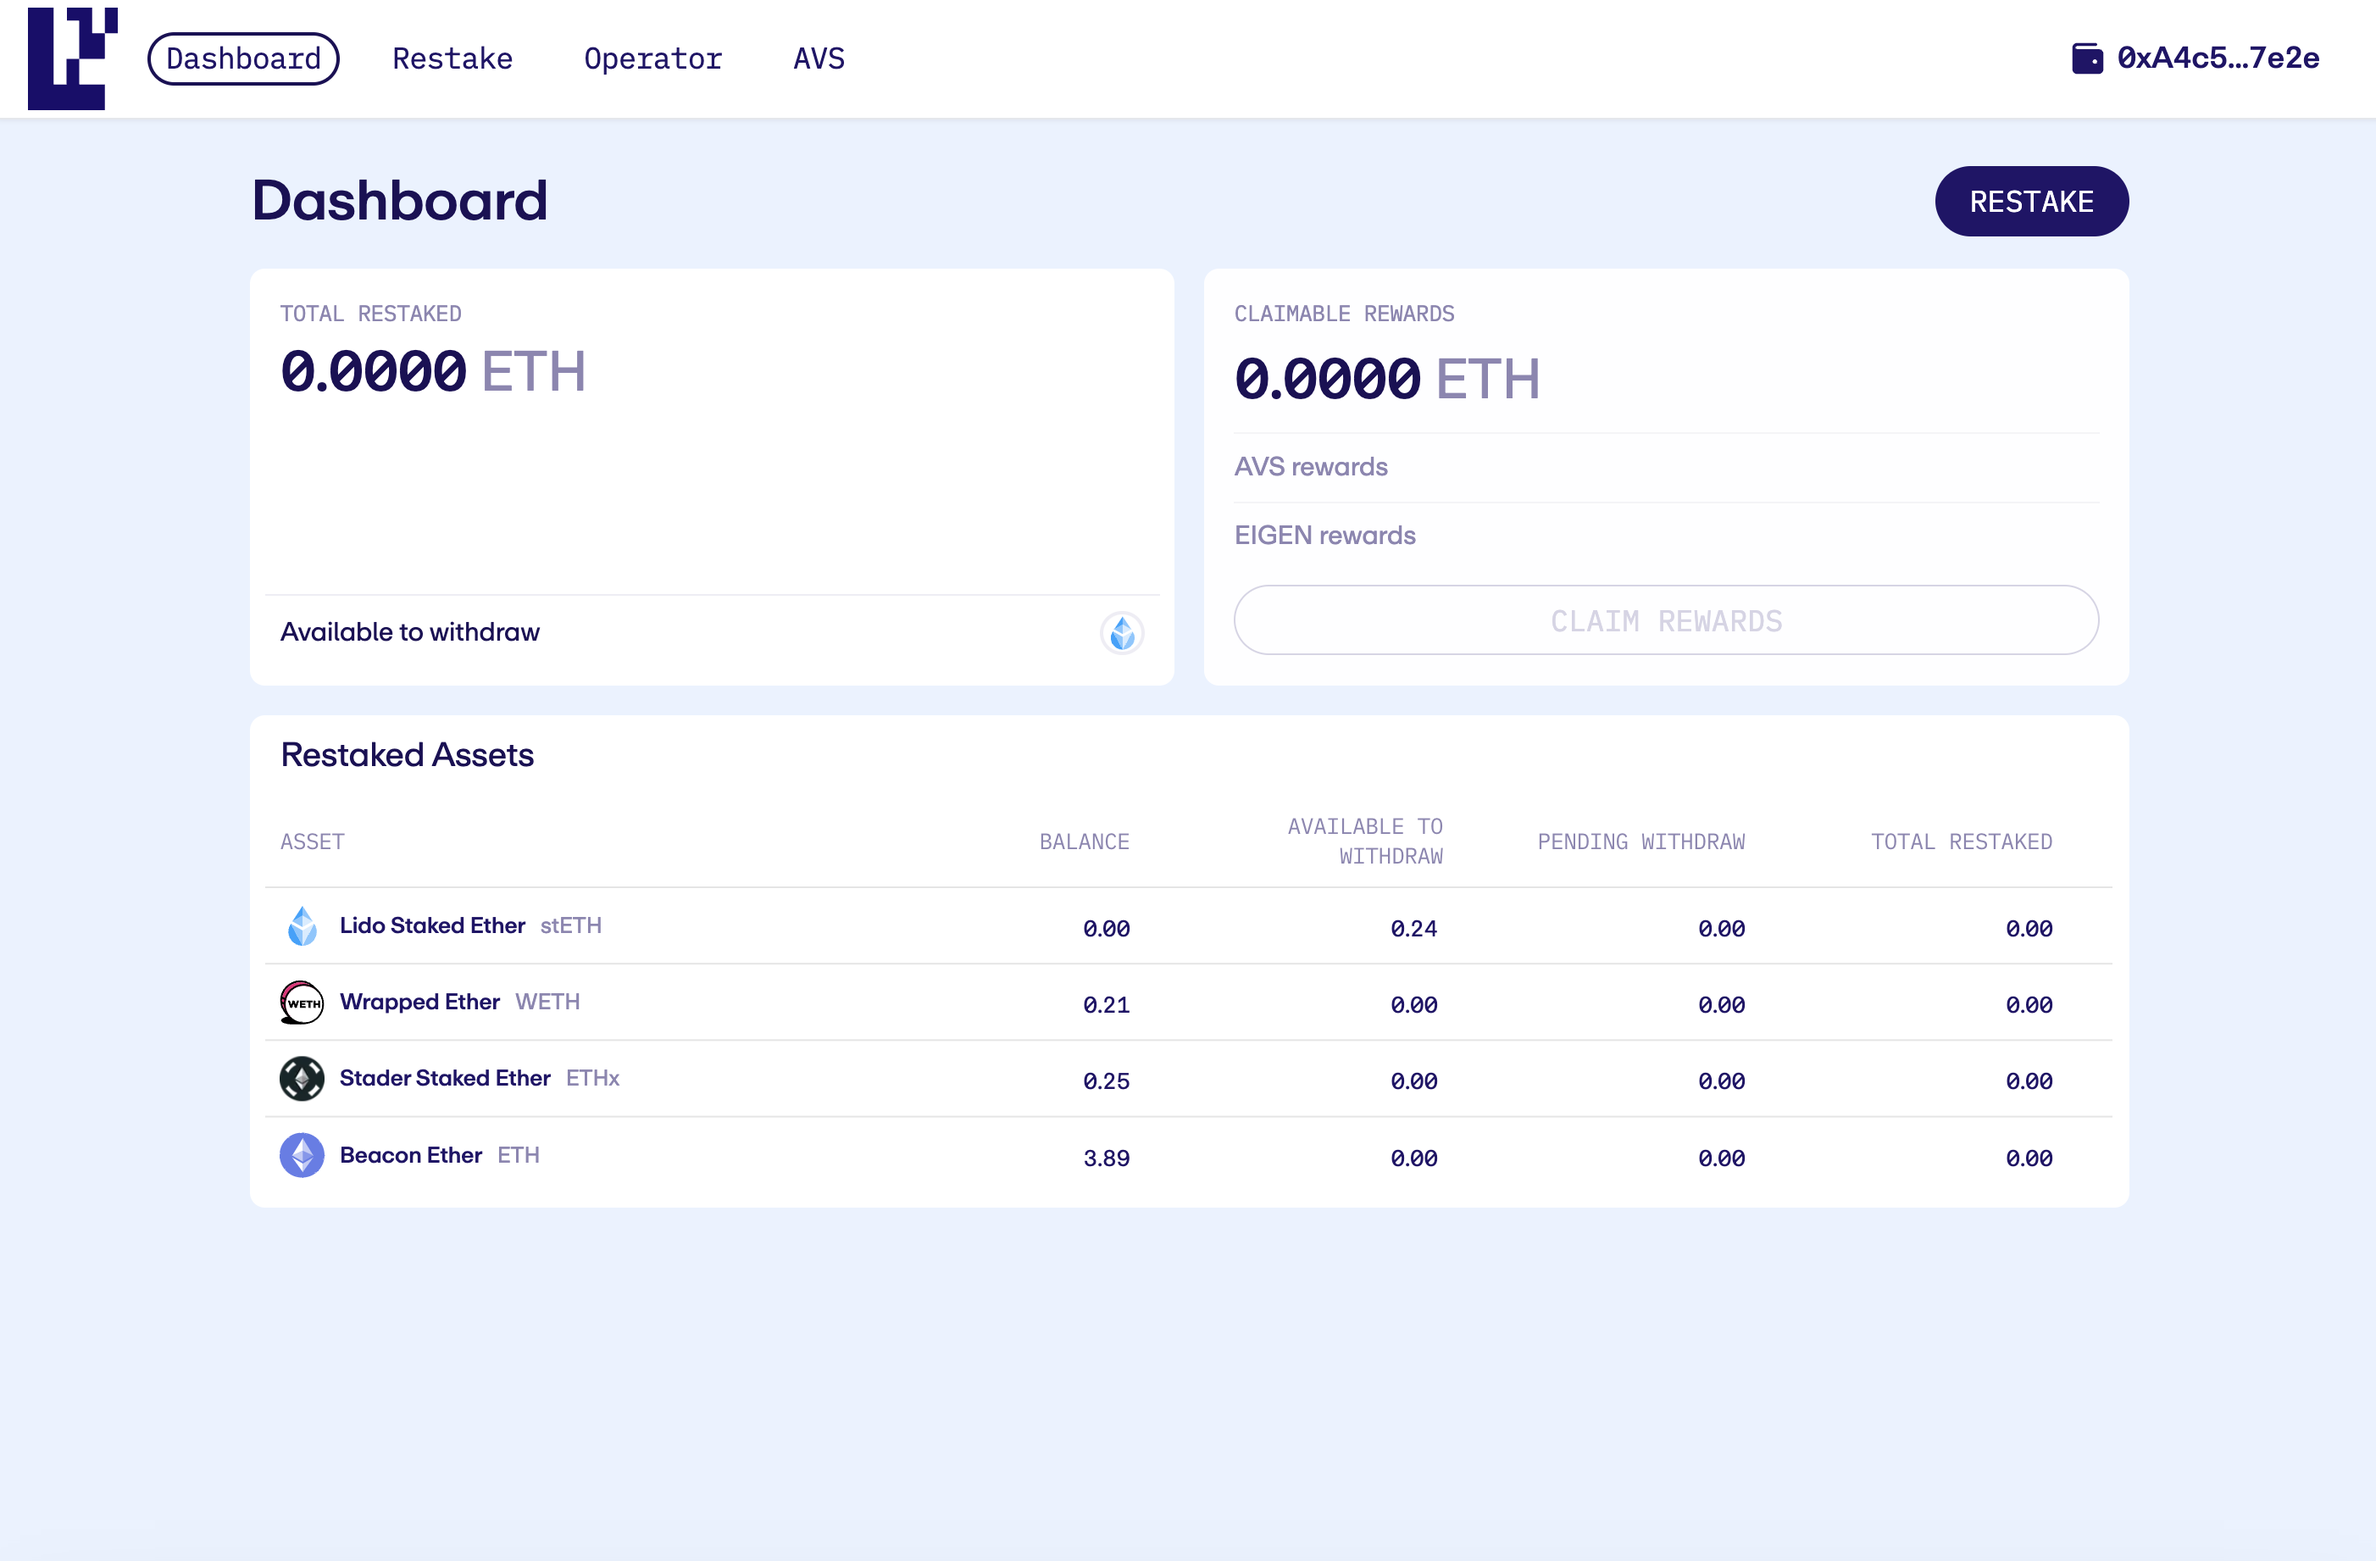
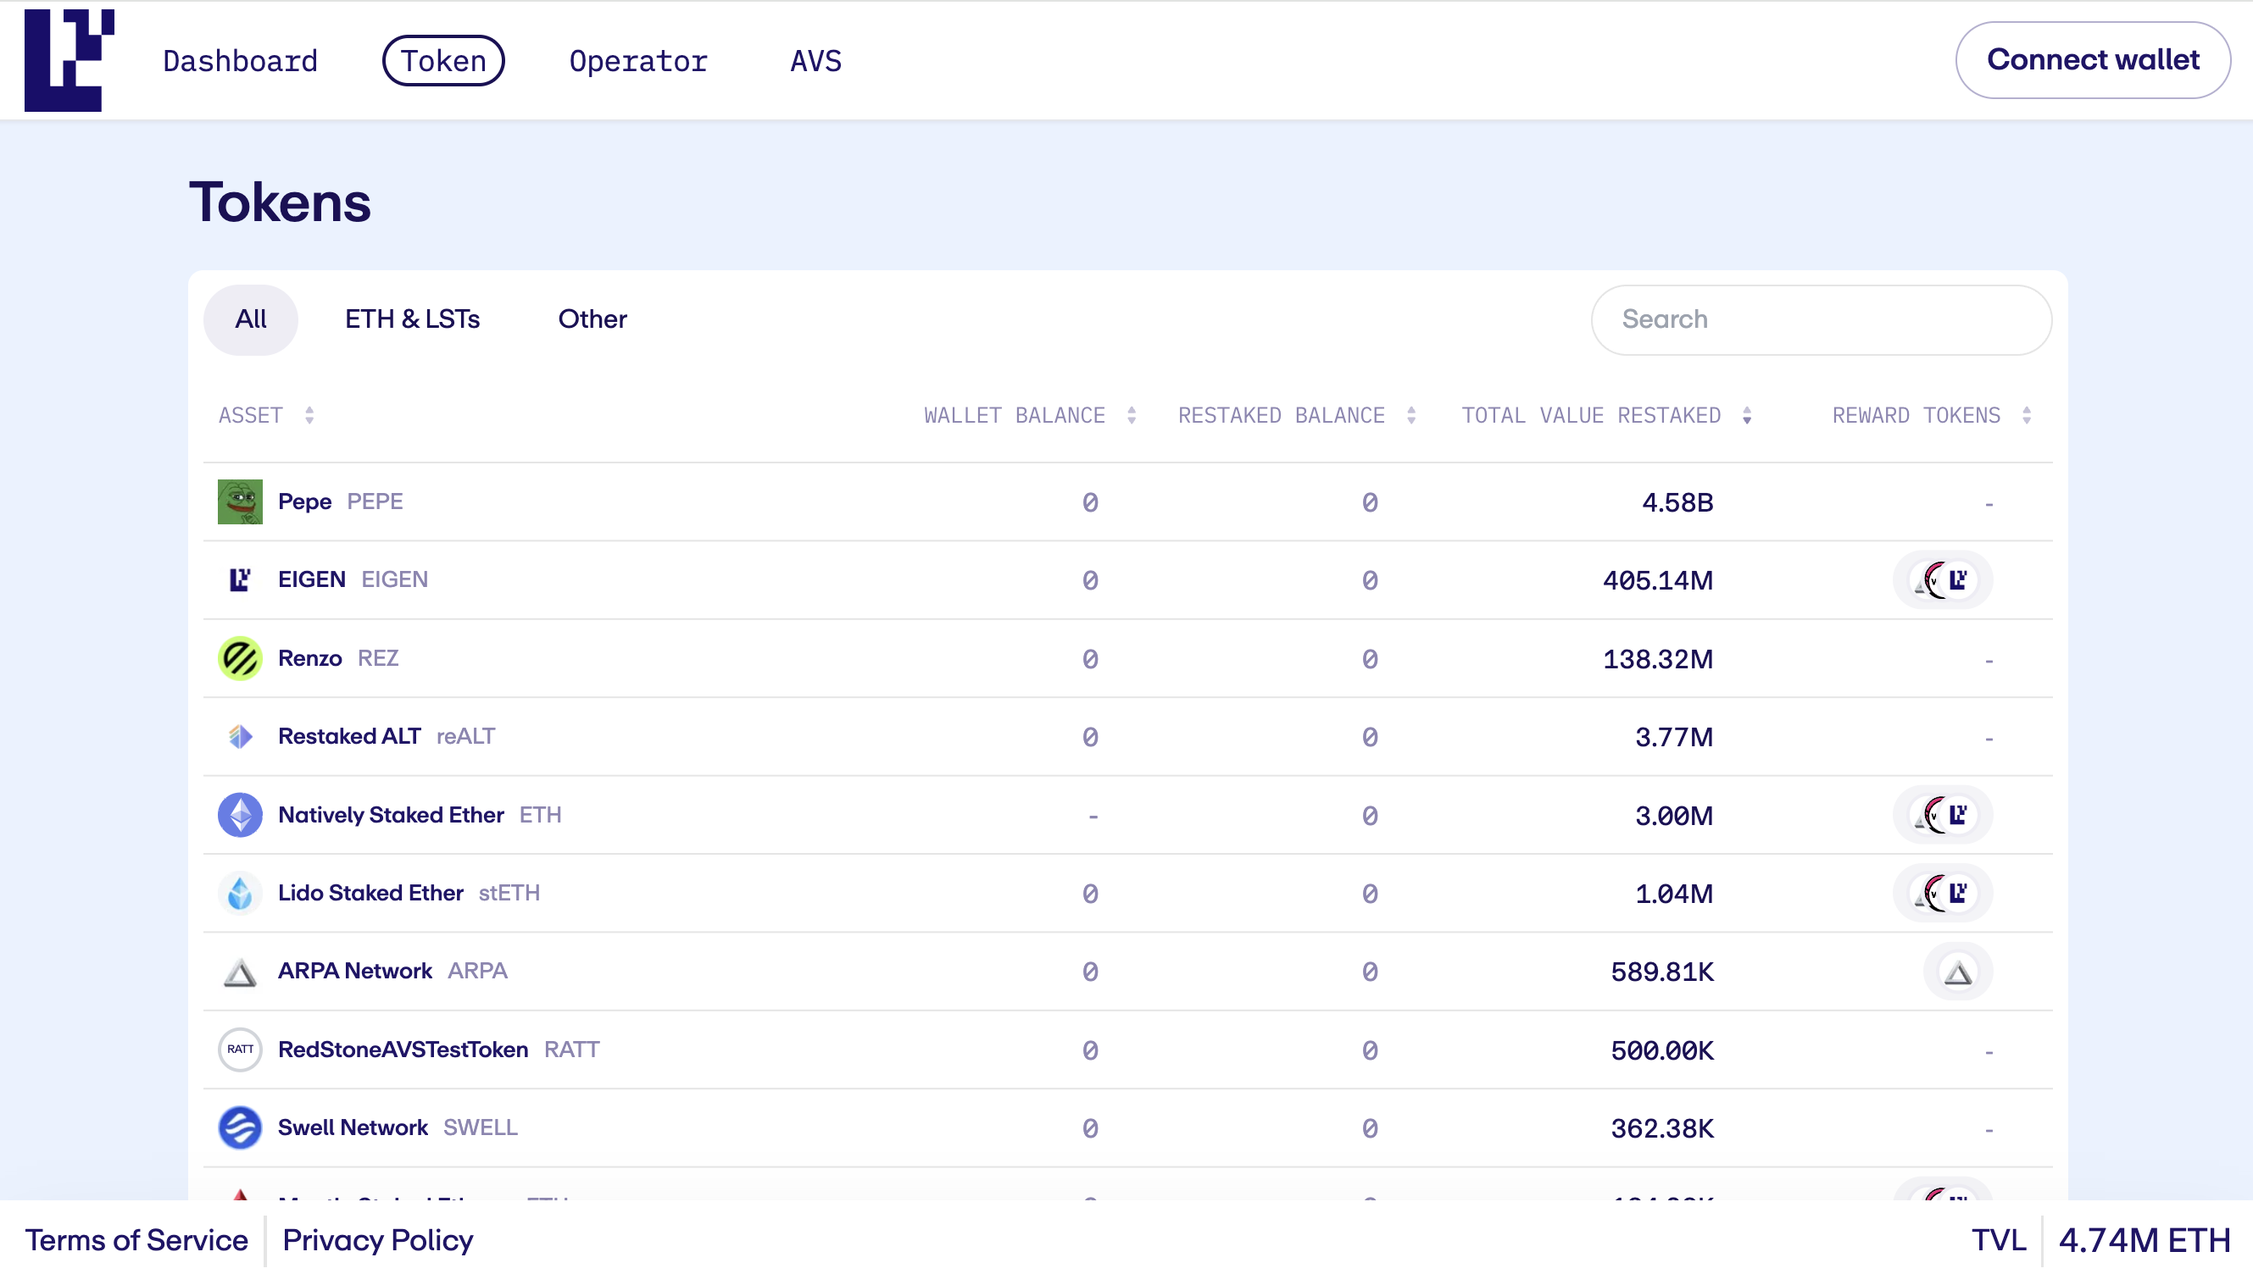
Update Restaking Screenshots and Instructions to reference Token Tab (#416)

diff --git a/docs/eigenlayer/restaking-guides/0-restaking-user-guide/liquid-restaking/restake-lsts.md b/docs/eigenlayer/restaking-guides/0-restaking-user-guide/liquid-restaking/restake-lsts.md
@@ -12,10 +12,13 @@ The following instructions will walk you through how tokens can be restaked on t
 
 ![](/img/restake-guides/lst-restake-1.png)
 
-**Step 2:** Click **Restake**.
+**Step 2:** Click **Token** tab to view assets available for restaking.
 
 **Step 3:** Click on the asset you wish to restake. Choose the amount of the asset you wish to restake. Click **Submit** to continue.
 
+:::info
+This guide to Liquid Staking refers to all assets displayed on the Token tab, except for `Natively Staked Ether`, which refers to [Native Staking here](../native-restaking/README.md).
+:::
 ![](/img/restake-guides/lst-restake-2.png)
 
 

diff --git a/docs/eigenlayer/restaking-guides/0-restaking-user-guide/native-restaking/README.md b/docs/eigenlayer/restaking-guides/0-restaking-user-guide/native-restaking/README.md
@@ -28,9 +28,10 @@ We recommend users connect many validators to a single EigenPod in order to redu
 
 Create EigenPod:
 1. Visit the [EigenLayer App](https://app.eigenlayer.xyz/).
-1. Click Create EigenPod.
-1. Sign transaction.
-2. Observe the new EigenPod contract address is displayed.
+1. Click **Natively Staked Ether** via the Dashboard or Token tab.
+1. Click **Create EigenPod**.
+1. **Sign** the transaction via your Web3 wallet when prompted.
+1. Observe the new EigenPod contract address is displayed.
 
 :::info
 This address is responsible for all subsequent restaking and withdrawal activities associated with that EigenPod.
